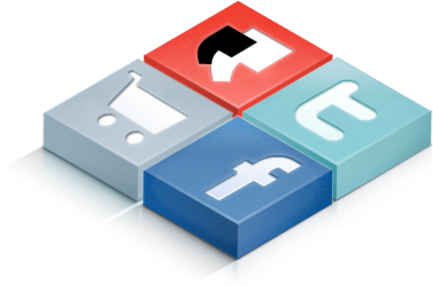
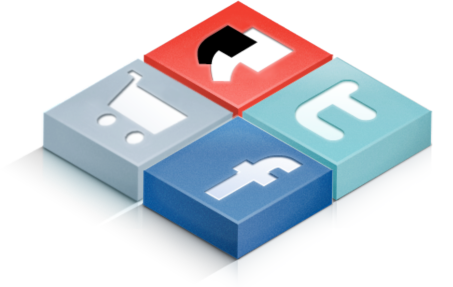
Updated static look and feel, moved background image source.

Changed region(s): [[0.0901, 0.0, 1.0, 0.9199], [0.8707, 0.4739, 0.9007, 0.5017], [0.1501, 0.446, 0.1801, 0.4739]]

diff --git a/src/main/webapp/scss/echoed-static.scss b/src/main/webapp/scss/echoed-static.scss
@@ -1,6 +1,6 @@
 $mainColor: #DC0814; //RED
 $redColor: #DC0814; //RED
-$secondaryColor: #ff6f00; //ORANGE
+$secondaryColor: #DC0814; //ORANGE
 $greyColor : #444444;
 $fbColor: #3B5998;
 $twitterColor: #4099FF;
@@ -47,6 +47,14 @@ $readingTextLineHeight: 1.5em;
     color: $color;
     font-weight: 700;
 }
+
+@mixin textFontLight($size: 16px, $color: #111){
+        font-family: $readingTextFontFamily;
+        font-weight: 300;
+        color: $color;
+        font-size: $size;
+    }
+
 
 @mixin labelFont($size: 32px, $color: #333) {
     font-size: $size;
@@ -183,7 +191,7 @@ form label em {
     width: 100%;
     position:absolute;
     z-index:10;
-    background-image: image-url("bk_paper.png");
+    background-image: image-url("bk_noise.png");
     &.grey{
         background-color: #e7e7e7;
     }
@@ -225,7 +233,7 @@ form label em {
 
             #lm{
                 z-index: 10000;
-                background-color: #FFFFFF;
+                background-color: #F8F8F8;
                 margin-top: 50px;
                 width: 550px;
                 position:absolute;
@@ -233,9 +241,9 @@ form label em {
                 left: 50%;
                 padding: 20px;
                 border-radius: 10px;
-                box-shadow: 0px 0px 3px 3px rgba(34,25,25,0.4);
-                -moz-box-shadow: 0px 0px 3px 3px rgba(34,25,25,0.4);
-                -webkit-box-shadow: 0px 0px 3px 3px rgba(34,25,25,0.4);
+                box-shadow: 3px 3px 3px rgba(10,10,10,0.8);
+                -moz-box-shadow: 3px 3px 3px rgba(10,10,10,0.8);
+                -webkit-box-shadow: 3px 3px 3px rgba(10,10,10,0.8);
 
                 #lm-label{
                     @include labelFont;
@@ -255,7 +263,8 @@ form label em {
                     #lm-bottom-left{
                         float:left;
                         line-height:1.5em;
-                        width: 145px;
+                        @include textFontBold(14px, #000);
+                        width: 130px;
                     }
                     #lm-bottom-right{
                         .login{
@@ -330,25 +339,21 @@ form label em {
 
 
 
-    #footer{
+   #footer{
         position: absolute;
         bottom: 0px;
         width: 100%;
         height: 50px;
         background-color: #FFF;
-        border-top: 1px solid #000;
+        box-shadow: 0 -2px 2px rgba(34,25,25,0.5);
+                -moz-box-shadow: 0px -2px 2px rgba(34,25,25,0.5);
+                -webkit-box-shadow: 0px -2px 2px rgba(34,25,25,0.5);
 
-        &.relative{
-            height: 50px;
-            border-top: 1px solid #000;
-            padding-top: 10px;
-        }
         &.float{
             position: absolute;
             bottom:0px;
             width: 100%;
             z-index: 10000;
-            border-top: 1px solid #000;
         }
    }
 
@@ -608,7 +613,7 @@ section{
         border-top: 1px solid #333;
         padding: 5px;
         line-height: 1.2em;
-        font-size: 14px;
+        @include textFont(14px, #111);
     }
 }
 
@@ -619,6 +624,5 @@ section{
     left:0px;
     height: 100%;
     width: 100%;
-    //background-image: image-url("bg-whitepx30.png");
     z-index: 200;
 }

diff --git a/src/main/webapp/js/echoed-public.js b/src/main/webapp/js/echoed-public.js
@@ -114,43 +114,14 @@ Echoed.Views.Components.Product = Backbone.View.extend({
         var hover = this.el.find(".item_hover_wrap");
         var img = this.el.find("img");
         var text = this.el.find(".item_text");
-        if(this.model.get("echoProductName")){
-            hover.append('<strong>' + this.model.get("echoProductName") +'</strong><br/><br/>');
-            text.prepend(this.model.get("echoProductName")+'<br/>');
-        }
-        if(this.model.get("echoBrand"))
-            hover.append('<strong>by ' + this.model.get("echoBrand") + '</strong><br/><br/>');
-
-        if(this.model.get("retailerName")){
-            text.prepend('<strong>' + this.model.get("retailerName") + '</strong><br/>');
-            hover.append('@ ' + this.model.get("retailerName") + '<br/><br/>');
-        }
-        if(this.model.get("echoedUserName"))
-            hover.append('<span class="highlight"><strong>' + this.model.get("echoedUserName") + '</strong></span><br/><br/>');
-        if(this.model.get("echoCredit")){
-            hover.append("<span class='highlight'><strong>Reward: $" + this.model.get("echoCredit").toFixed(2) +'</strong></span><br/><br/>');
-        }
+        text.append('<strong>' + this.model.get("partnerName") + '</strong><br/>');
+        text.append(this.model.get("echoProductName"));
         img.attr('src', imageUrl);
         if (imageWidth > 0) {
             img.attr('width', imageWidth)
         }
         if (imageHeight > 0) {
             img.attr('height', imageHeight)
-        }
-        if(this.model.get("echoCreditWindowEndsAt")){
-            var then = this.model.get("echoCreditWindowEndsAt");
-            var a = new Date();
-            var now = a.getTime();
-            var diff = then - now;
-            var daysleft = parseInt(diff/(24*60*60*1000));
-            if(daysleft >= 0){
-                hover.append("<span class='highlight'><strong>Days Left: "+ (daysleft + 1) + "</strong></span><br/><br/>");
-                self.showOverlay();
-                var t = setTimeout(self.hideOverlay, 3000);
-                img.addClass("open-echo");
-                var visits = this.model.get("echoTotalClicks");
-                //hover.append("<span class='highlight'><strong>" + visits + " people have visited</strong></span>");
-            }
         }
         return this;
     },

diff --git a/src/main/webapp/views/index.html b/src/main/webapp/views/index.html
@@ -1,4 +1,4 @@
-    {{> partial_header_public }}
+        {{> partial_header_public }}
     <title>Echoed</title>
     <link rel="stylesheet" type="text/css" href="{{urls.css}}/echoed-static.css?v={{version}}" />
 </head>
@@ -23,7 +23,7 @@
             <div id="lm-bottom" class="clearfix">
                 <div id="lm-bottom-text">
                     <div id="lm-bottom-left">
-                        <span class="lm-text-bold">Want To See More? Already A Member?</span>
+                        Want To See More? Already A Member?
                     </div>
                     <div id="lm-bottom-right">
                         <div class="login">

diff --git a/src/main/webapp/scss/echoed.scss b/src/main/webapp/scss/echoed.scss
@@ -1,6 +1,6 @@
 //$mainColor: #FF7733;
 $mainColor: #E31B23;
-$highlightColor : #FF7733;
+$highlightColor : #DC0814;
 $fbColor: #3B5998;
 $twitterColor: #4099FF;
 
